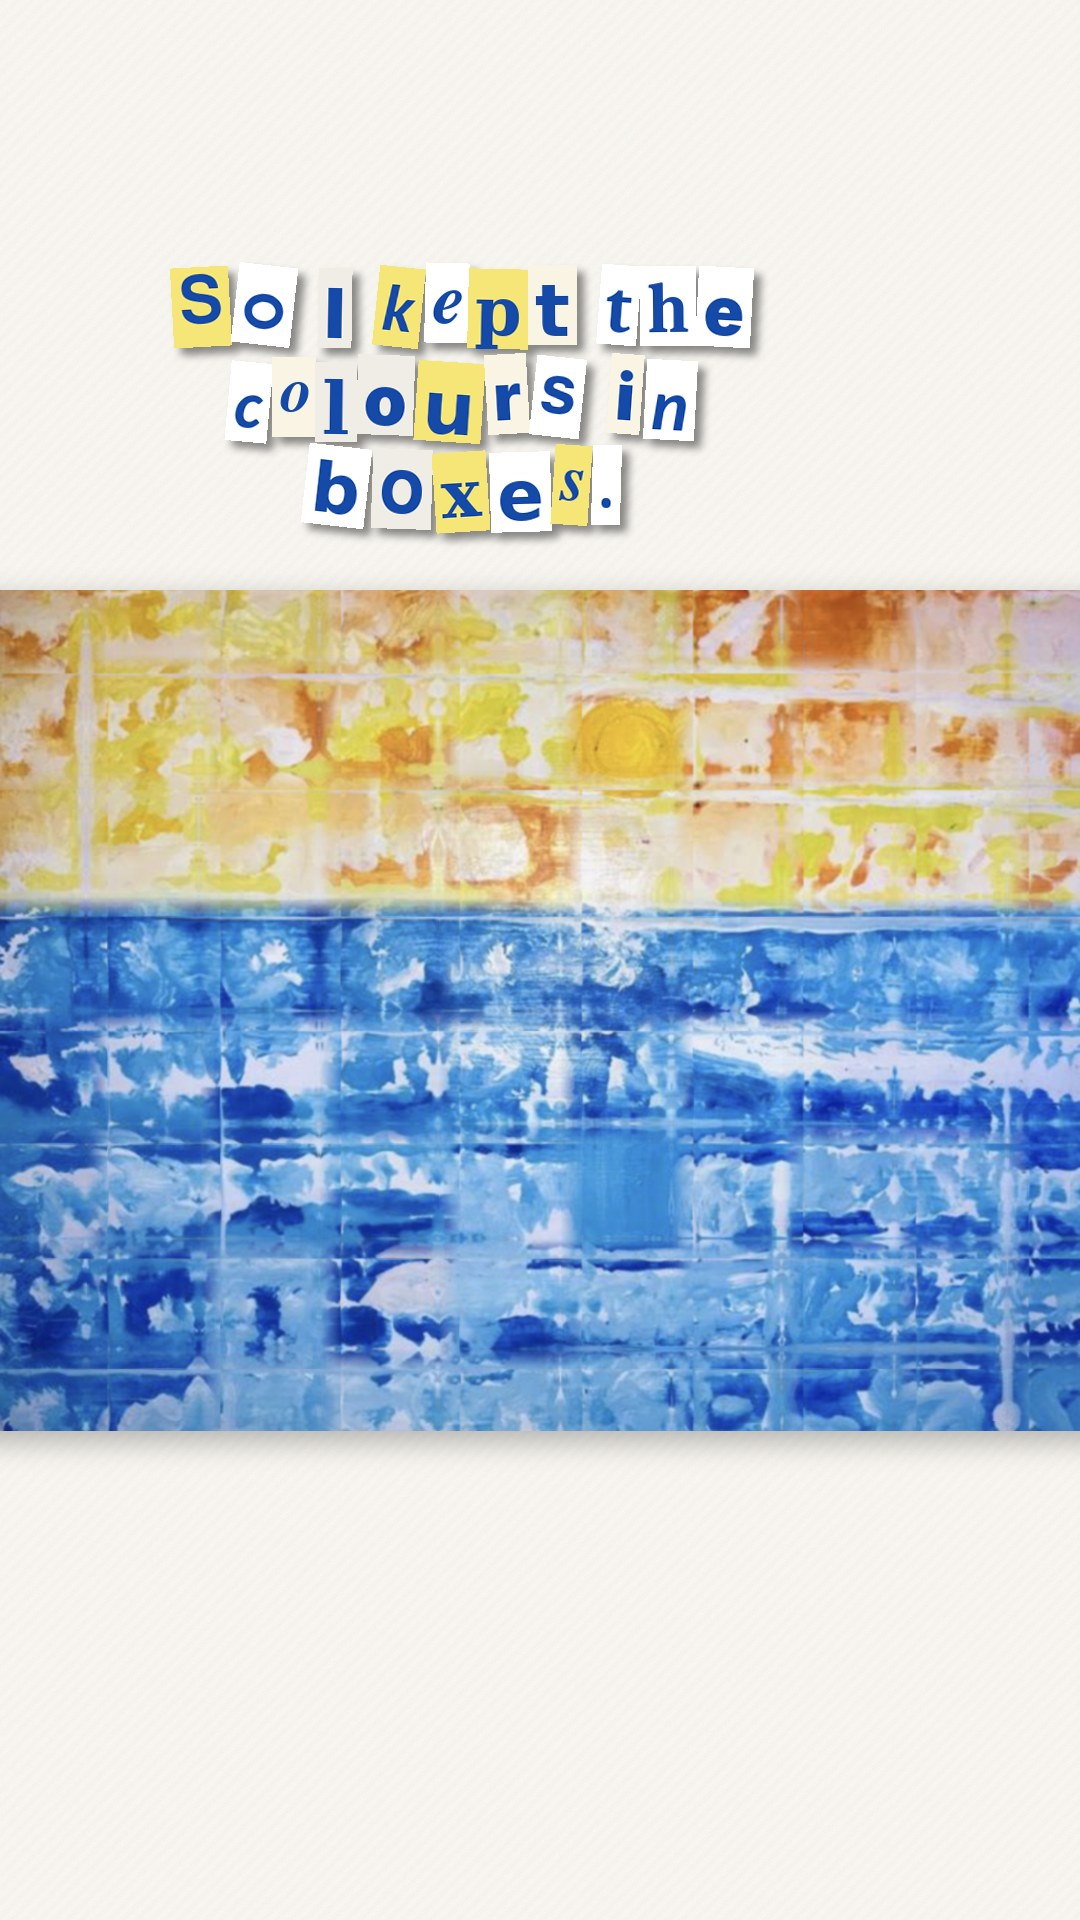
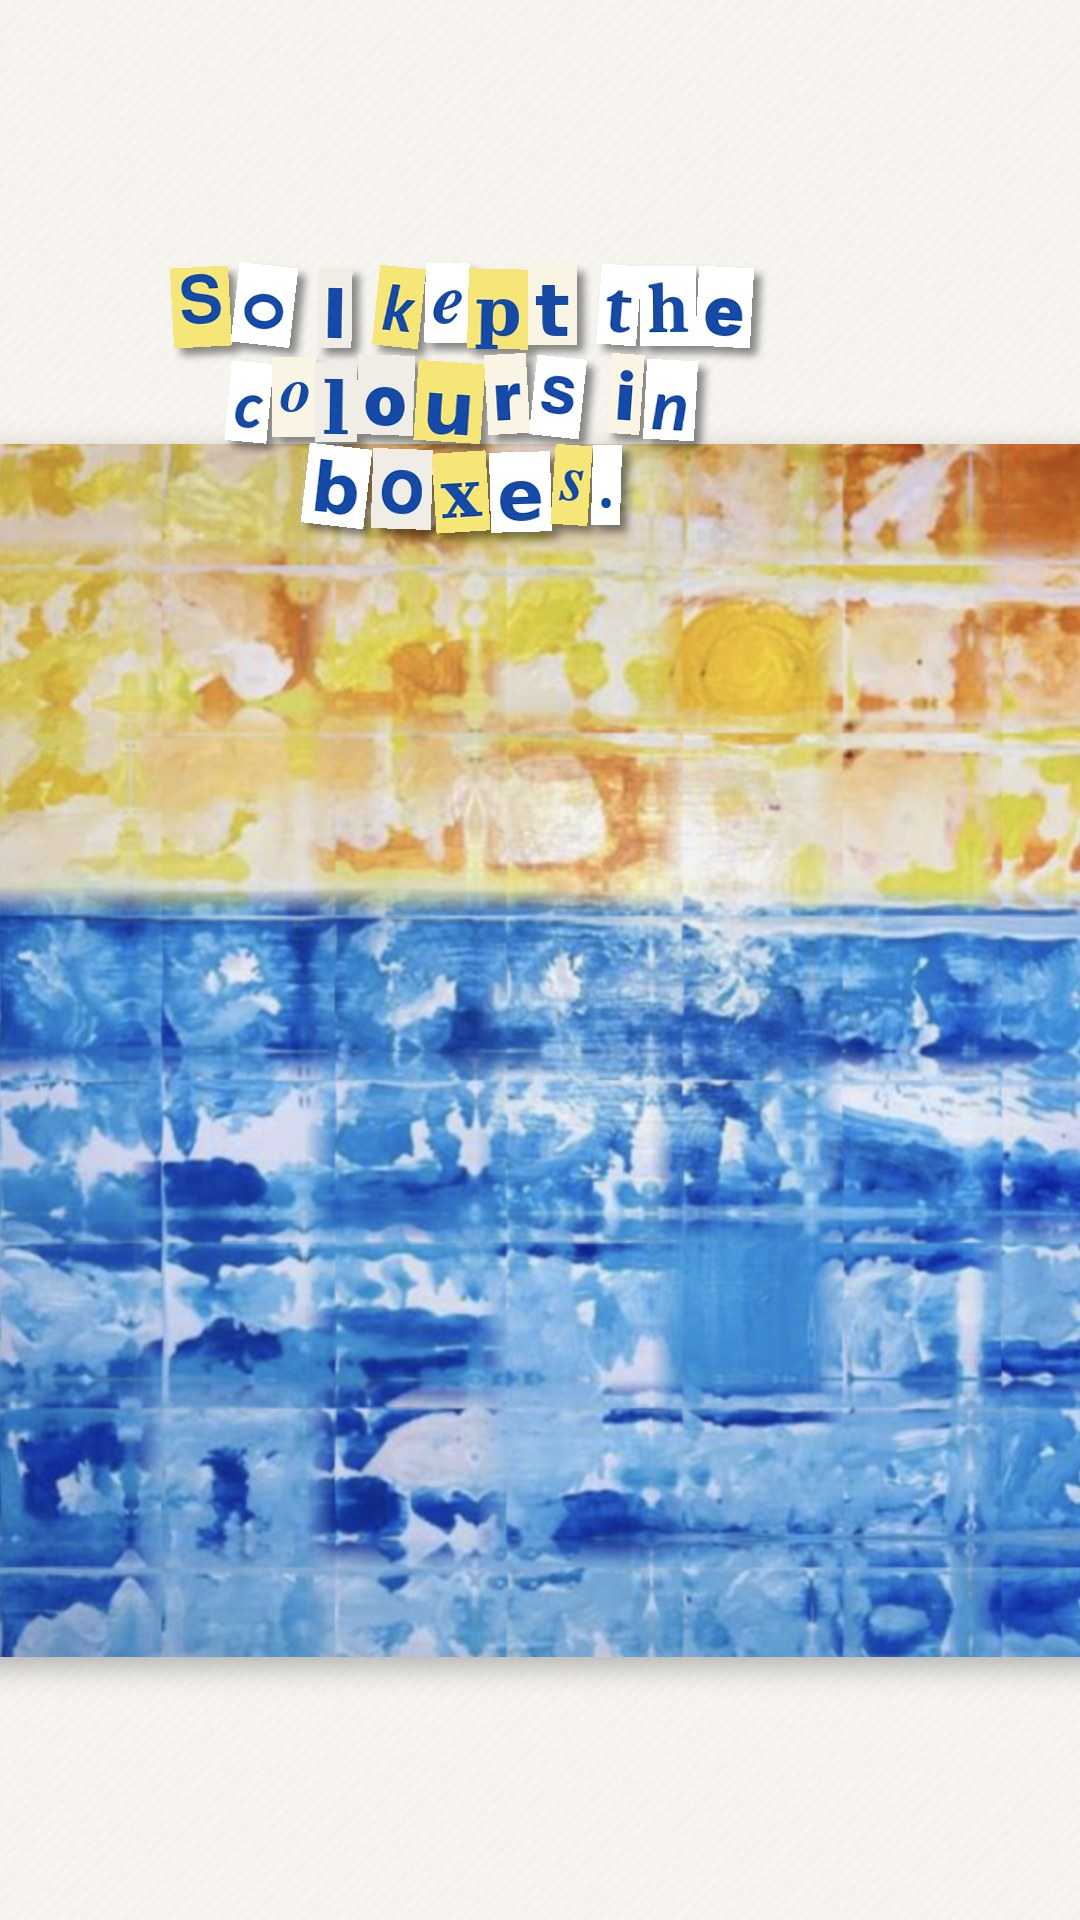
Reel 3: final render with larger sea shots, check sheet
Claude-Session: https://claude.ai/code/session_019PesBtMVvLsXaZuR586bAA

diff --git a/reel3/render.py b/reel3/render.py
@@ -92,8 +92,8 @@ def bump(x, w=0.8): return float(np.exp(-(x * x) / w))
 # camera keyframes: t, scale, painting centre x, y, screen centre y
 KEYS = [(0.0, 1.80, 806, 541, 960), (2.7, 1.80, 806, 541, 960), (5.8, 2.60, 806, 690, 960),
         (10.6, 2.75, 806, 700, 960), (13.0, 2.10, 790, 300, 960), (13.6, 2.10, 790, 300, 960),
-        (15.2, 0.777, 695, 541, 1010), (35.7, 0.80, 695, 541, 1010), (42.0, 9.0, *B26_C, 960),
-        (47.85, 9.2, *B26_C, 960), (50.6, 0.80, 695, 541, 1010), (60.4, 0.80, 695, 541, 1010),
+        (15.2, 1.12, 620, 541, 1050), (35.7, 1.12, 780, 541, 1050), (42.0, 9.0, *B26_C, 960),
+        (47.85, 9.2, *B26_C, 960), (50.6, 1.12, 700, 541, 1050), (60.4, 1.12, 640, 541, 1050),
         (63.2, 9.0, *B26_C, 960), (DUR, 9.0, *B26_C, 960)]
 def camera(t):
     for (t0, s0, x0, y0, q0), (t1, s1, x1, y1, q1) in zip(KEYS, KEYS[1:]):
